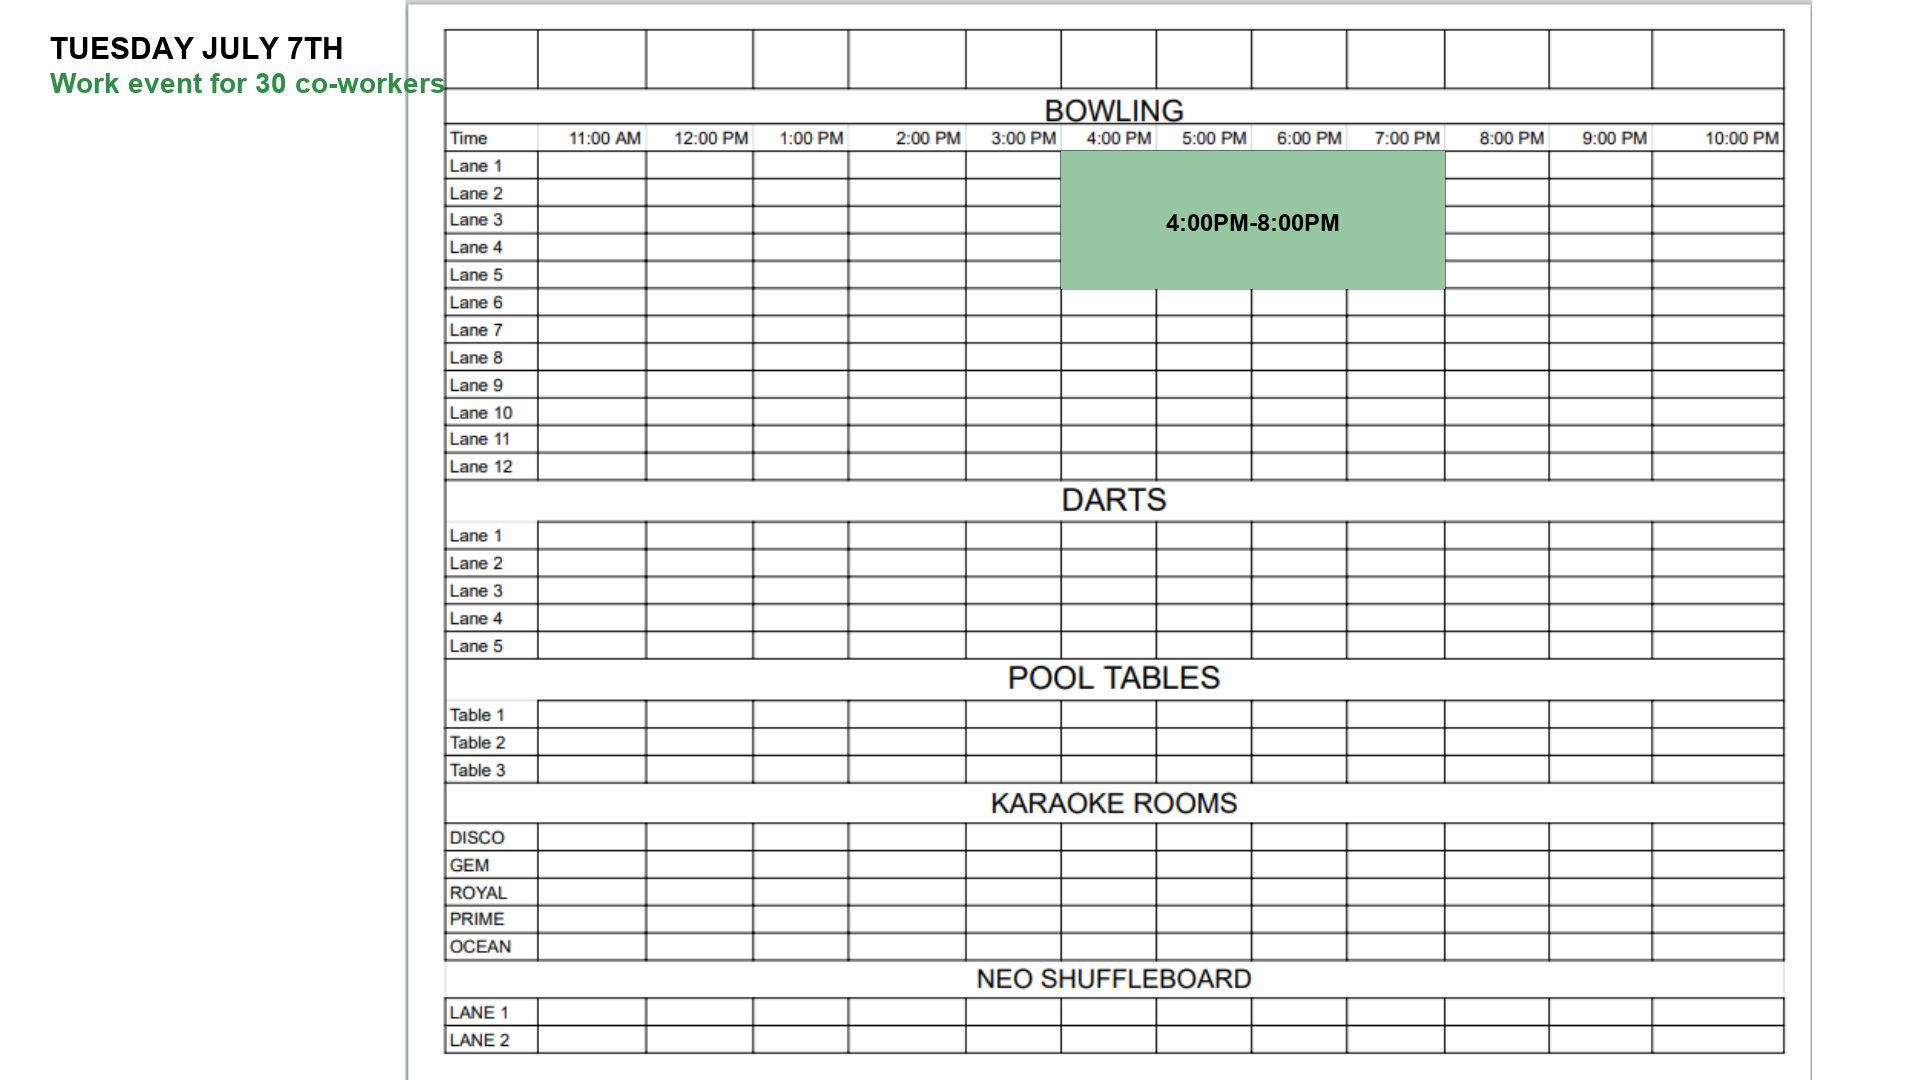
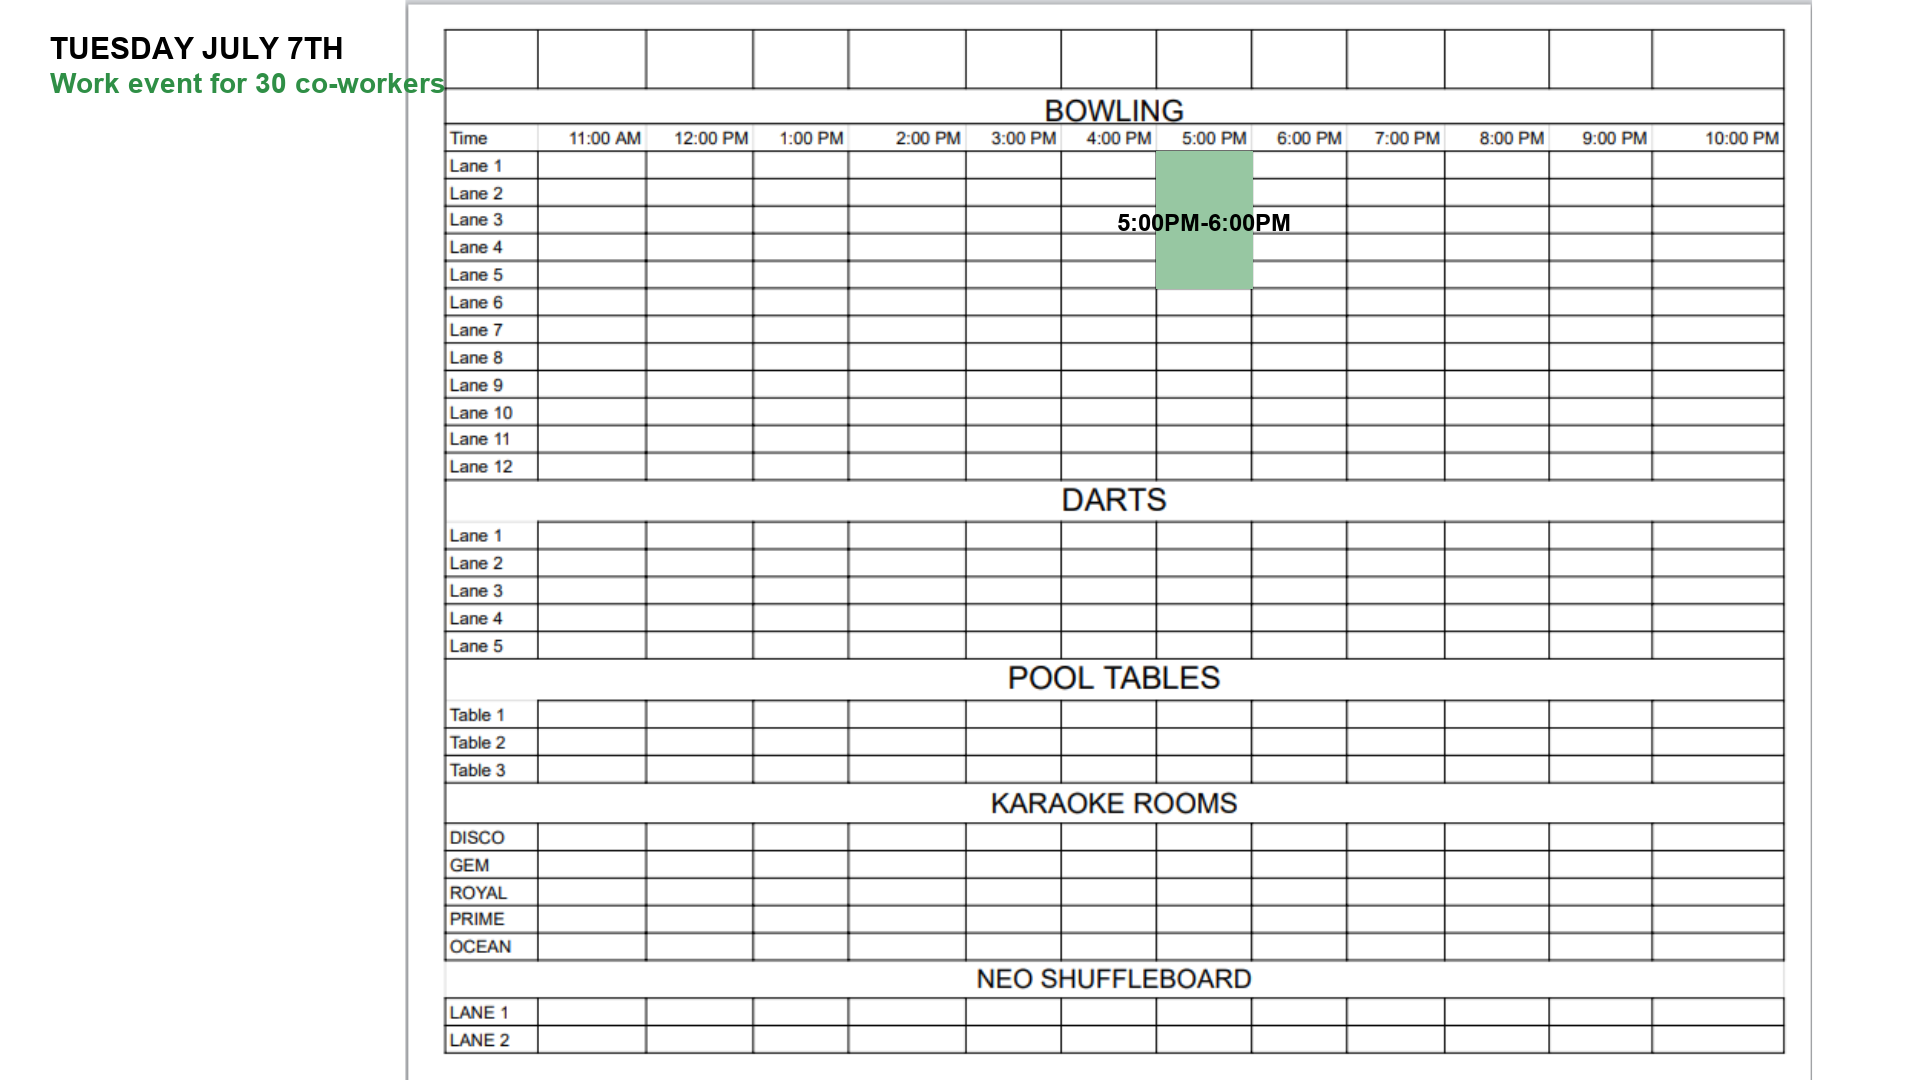
Fix July 7 entertainment schedule timing

Changed region(s): [[0.5312, 0.1222, 0.75, 0.275]]

diff --git a/docs/on-par-events-knowledge-base.md b/docs/on-par-events-knowledge-base.md
@@ -729,14 +729,14 @@ This matrix summarizes the current deployable event data. Always re-check Triple
 - Drinks:
   - Food + Beverage package
 - Entertainment:
-  - Duckpin Bowling, 5 lanes, 4:00 PM - 8:00 PM, 4 hours
+  - Duckpin Bowling, 5 lanes, 5:00 PM - 6:00 PM, 1 hour
   - Mini Golf, 30 guests, Untimed, 9 holes
 - Special instructions:
   - Need to start around 4:00 PM and end by 8:00 PM.
   - VIP 1 is listed in the current BEO event summary.
 - Floor-plan interpretation:
   - Highlight VIP 1 full support seating and 1 VIP food table.
-  - Highlight bowling lanes 1-5 and label 4-8.
+  - Highlight bowling lanes 1-5 and label 5-6.
   - Mini golf is untimed and does not need a time label.
 - Verification: BEO checked above billing section; room assignment updated to VIP 1.
 
